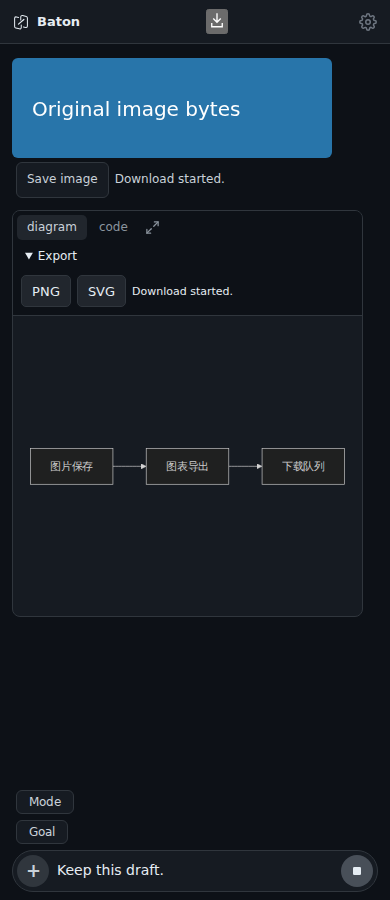
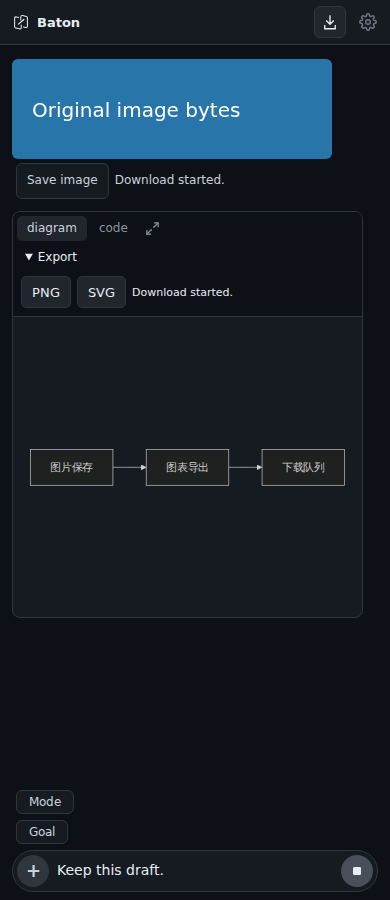
docs: record fourteen-PR integration and queue layout verification

diff --git a/docs/contribution-integration.md b/docs/contribution-integration.md
@@ -1,6 +1,6 @@
 # Pending contributions: combined verification
 
-This branch combines the thirteen open contribution PRs so their interactions and conflict resolutions can be inspected together. The individual PRs remain the review/merge units. This is not a release, an installed application, or a claim that the maintainer has accepted the changes.
+This branch combines fourteen open contribution PRs so their interactions and conflict resolutions can be inspected together. The individual PRs remain the review/merge units. This is not a release, an installed application, or a claim that the maintainer has accepted the changes.
 
 Base: `283dbf62574e0dc10f713b6fb2f9861611204406`.
 
@@ -18,29 +18,35 @@ Base: `283dbf62574e0dc10f713b6fb2f9861611204406`.
 | #102 | `6844046c62ee9904a5aa7fb04a7e2b7e3860ebec` |
 | #103 | `c445a1b0b073c70df6d3e5388f890dfd23dbf569` |
 | #104 | `8374face7672cb902406623a81c9bb11018dc7a8` |
-| #105 | `6f096fe92b83bd8a574a26637bdcd4cc7a2e1077` |
+| #105 | `49bb390cb883fc7f8122f864154327db7bd6b482` |
+| #106 | `ad7e46671c688b0dc497f6d0bc697389f5e40330` |
 
 ## Merge resolution
 
-The merge order was #92, #93, #95, #103, #104, #96, #101, #94, #99, #105, #102, #97, #98. Eleven of the 78 pairwise combinations had text conflicts; the combined branch resolves them without discarding a feature.
+The initial merge order was #92, #93, #95, #103, #104, #96, #101, #94, #99, #105, #102, #97, #98, followed by #106 and the #105 stylesheet fix. Eleven of the initial 78 pairwise combinations had text conflicts; #106 also conflicts with #97, #98 and #102 independently. This branch retains all features in the resolutions.
 
 - `web/js/entry-index.js`: retain each feature import and call each initializer once after the core modules have loaded. Quote, message Copy, code Copy, Goal, Mode, image saving, Back, file drop and zoom all remain enabled.
-- `src-tauri/src/lib.rs`: retain drag-drop window setup and commands, plus the zoom module and command. The Mac command handler includes both; the other-platform handler keeps the zoom command's explicit unsupported-platform response.
-- `src-tauri/Cargo.toml`: keep both Mac dependencies, reqwest blocking and objc2-foundation NSProcessInfo.
+- `src-tauri/src/lib.rs`: retain drop, zoom and native-tab modules and commands. The other-platform handler keeps explicit unsupported-platform responses. The native-tab window factory also configures drop hooks on every new window/tab.
+- `web/js/entry-setup.js`: initialize both native tabs and Android Back. The main entry initializes tabs, drop and zoom once.
+- `src-tauri/Cargo.toml`: retain reqwest blocking, objc2/AppKit and Foundation NSString/NSProcessInfo together.
 - `src-tauri/Cargo.lock`: regenerate the combined dependency graph. This adds the existing futures-channel/futures-sink dependency edges needed by blocking plus streaming reqwest; no package versions were upgraded.
 
 These resolutions are already present in this branch's merge history. The individual PRs have not been replaced with a single combined PR.
 
 ## Verification
 
-- Frontend: 701 passed, 1 existing skip. Bridge: 324 passed. Codex: 117 passed. Server: 145 passed. Packaging: 31 passed. Vite build passed.
+- Current fourteen-PR frontend: 708 passed, 1 existing skip. Packaging: 31 passed. Vite build passed. Bridge 324, Codex 117 and Server 145 passed on the preceding thirteen-PR combination; their source is unchanged by the tab integration and stylesheet fix.
 - Chromium at 390/1180 px: real clipboard Copy/Quote/code Copy, streaming and history updates, original image bytes, Mermaid PNG/SVG exports, queue cancellation acknowledgement/retry, draft preservation and Back closing the queue before navigation.
 - Same-session Mode/Goal checks run through the product frontend, local WebSocket, handlers and CodexInteraction, with a synthetic Codex runtime: Plan/Normal changes preserve the quote draft; Back closes Mode; Goal pause/resume preserves usage and automatic output remains visible. The individual Goal and Mode PRs separately document their real Codex runtime checks.
 - Drag/drop at 720/1180 px: real staging and browser image compression with simulated native drag/claim/upload. Duplicate events, session changes, upload progress and draft preservation pass. Zoom shortcut command dispatch during an upload also passes; this is not WKWebView zoom validation.
-- All four browser suites reported no page errors. Screenshots below are from Chromium using synthetic content, not native device screenshots.
-- Mac dependency resolution with the locked Cargo graph passed. Native Mac/iOS compilation and device acceptance are still pending.
+- A fifth browser suite exercises the actual native-tab/drop/zoom entry bootstrap with simulated Tauri IPC: two-page title isolation, tab creation retry, draft/selection preservation, Settings Back and zoom dispatch during upload. It does not execute AppKit or Finder.
+- All five browser suites reported no page errors. Screenshots below are from Chromium using synthetic content, not native device screenshots.
+- Visual inspection found that #105's queue stylesheet was not imported. The previous interaction checks missed this. Importing it from the file viewer fixes the layout; an added browser assertion failed before the fix (`static` instead of `fixed`) and passed afterward at 390/1180 px, checking panel position, width and list padding. Both standalone #105 and the combination passed this check; attachment/download focused tests passed 31/31.
+- Full Rust application checks passed for `aarch64-apple-darwin` and `aarch64-linux-android` with the locked dependency graph. Mac cross-target checking uses Clang and verifies the real AppKit/Tauri types; it does not link an app bundle or run macOS. Mac/iOS builds and device acceptance remain pending.
 
 A complete ARM64 Android debug APK of the combined implementation built successfully (command exit 0). The disposable test signature, ZIP integrity, native plugin commands, Back hook and current bundled frontend were verified. The APK was not installed; this does not establish native device acceptance.
+
[1 lines of base64/hex data omitted]
 
 ```sh
 npm ci
@@ -61,6 +67,6 @@ npm run build
 
 ## Remaining scope
 
-Native Mac/iOS builds and actual device saving/sharing/cancellation, Android Back/keyboard/lifecycle and Mac Finder/WKWebView behavior remain separate acceptance gates. Native tabs and independent window colors are not included here. Theme work remains deferred to the maintainer's implementation; the Android keyboard change still needs a current-device reproduction.
+Native Mac/iOS builds and actual device saving/sharing/cancellation, Android Back/keyboard/lifecycle and Mac Finder/WKWebView behavior remain separate acceptance gates. Native tabs are included in the code, but real AppKit screenshots, grouping/closing behavior and the optional native tab-strip add button still need Mac verification. Independent whole-window colors await the maintainer's theme interface. Theme work remains deferred to that implementation; the Android keyboard change still needs a current-device reproduction.
 
 Cancellable download preparation needs coordinated frontend, Bridge and Server updates. This branch does not deploy services or replace the existing Baton Lab installation.
